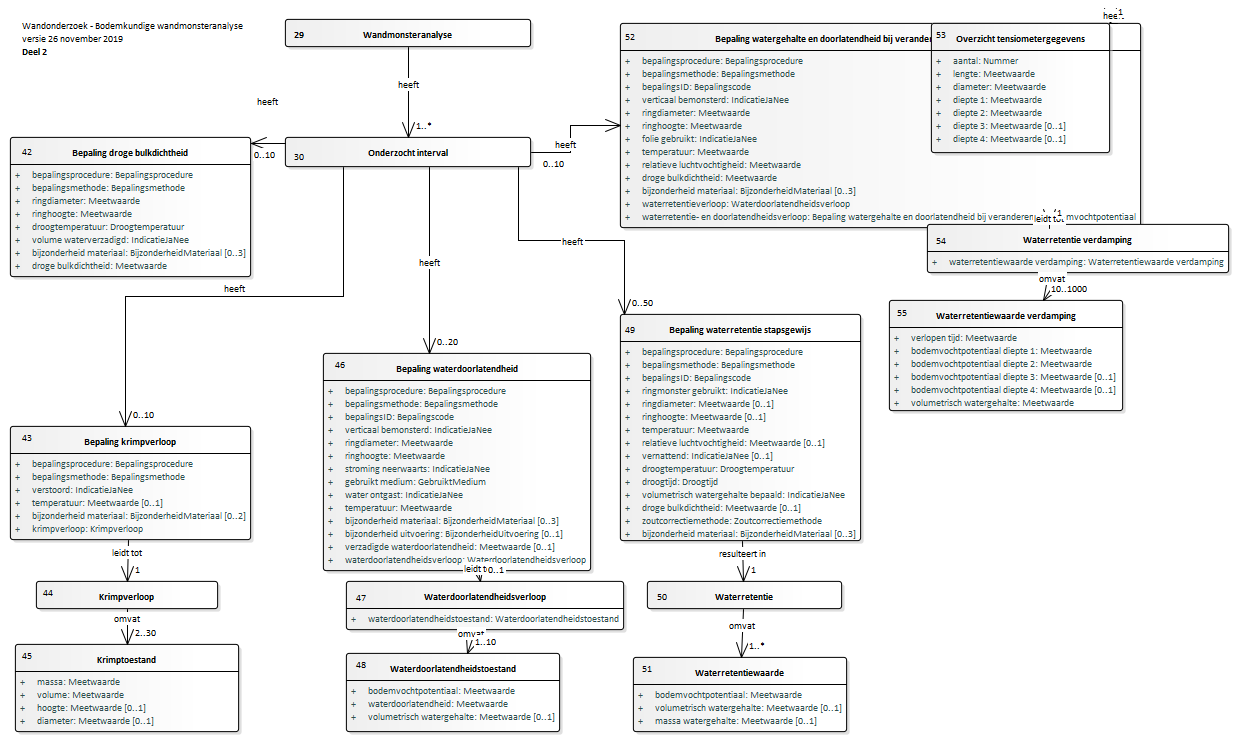
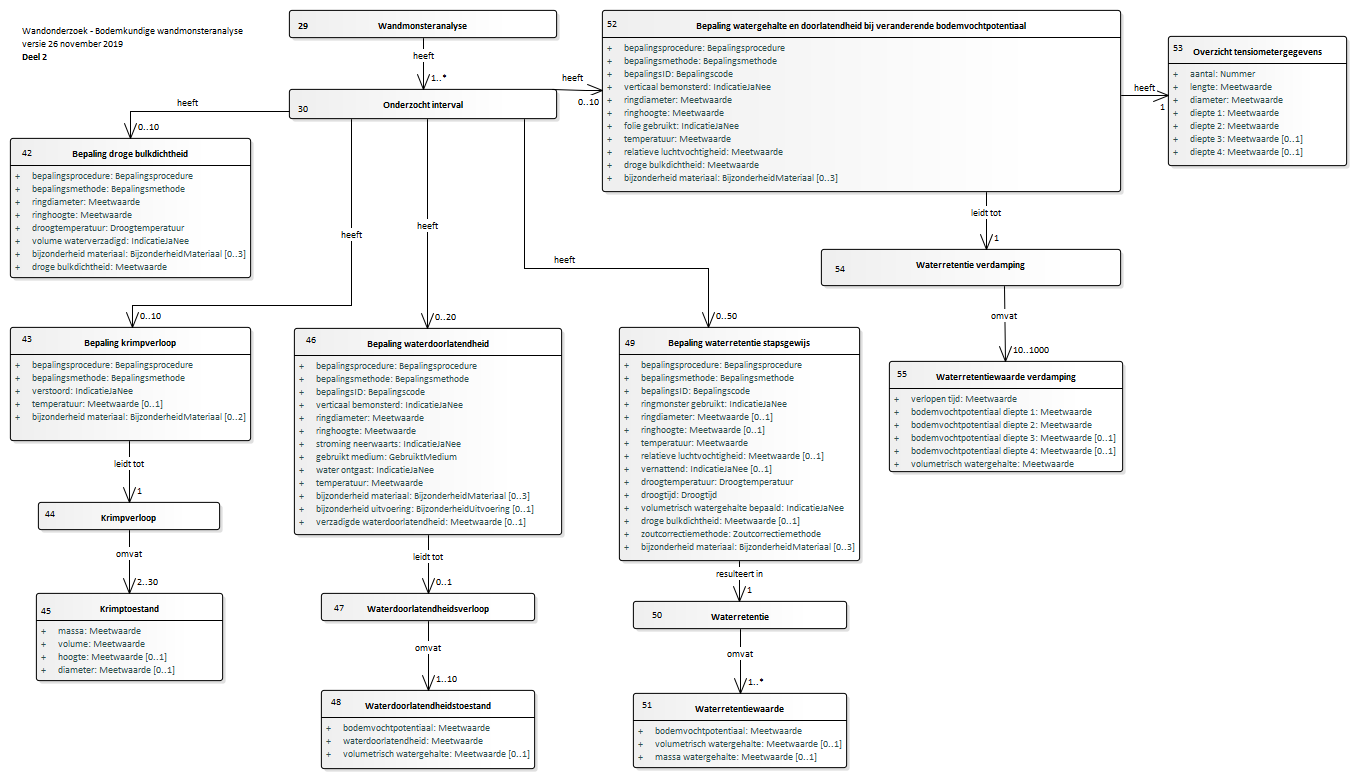
Conceptualmodel-BodemkundigwandonderzoekSFR-1.92.3versie10maart2020-3-20200316-20200317-100921

diff --git a/data/SFR-cat.msword.html b/data/SFR-cat.msword.html
@@ -13,7 +13,7 @@
    <body>
       <p>Conceptual model/Bodemkundig wandonderzoek (SFR)/20200316</p>
       <p>Imvertor: 1.59.2</p>
-      <p>Model release: Conceptualmodel-BodemkundigwandonderzoekSFR-1.92.3versie10maart2020-3-20200316-20200317-093454</p>
+      <p>Model release: Conceptualmodel-BodemkundigwandonderzoekSFR-1.92.3versie10maart2020-3-20200316-20200317-100921</p>
       <hr>
       <section>
          <h1>Artikel 1 Definitie van registratieobject, entiteiten en attributen</h1>
@@ -115,22 +115,22 @@
                      <area shape="rect" alt="Onderzocht interval" coords="409,135,660,223" href="#graph_EAID_A420FBE3_89CE_466c_875A_7F10AD21E90D"></map><p><b>Domeinmodel BRO SFR Bodemkundige analyses deel 1 1.91 </b></p>
                </div>
                <div class="imageinfo overview"><img src="Images/EAID_2E9B0773_D299_49e6_BEBA_866A5B1961C2.png" usemap="#imagemap-EAID_2E9B0773_D299_49e6_BEBA_866A5B1961C2" alt="Diagram "><map name="imagemap-EAID_2E9B0773_D299_49e6_BEBA_866A5B1961C2">
-                     <area shape="rect" alt="Wandmonsteranalyse" coords="285,19,531,47" href="#graph_EAID_DC3E6339_1B2C_482c_AB74_881D1281A2EC">
-                     <area shape="rect" alt="Krimptoestand" coords="15,644,239,732" href="#graph_EAID_ABD5754F_2F97_48b5_B6AA_798E8E996A1B">
-                     <area shape="rect" alt="Krimpverloop" coords="36,581,218,609" href="#graph_EAID_368A7E5B_2AC2_4377_898A_204592B121EE">
-                     <area shape="rect" alt="Bepaling krimpverloop" coords="10,426,251,540" href="#graph_EAID_FE20ED5D_F749_4cbf_A3F0_622FD6CE25DE">
-                     <area shape="rect" alt="Waterdoorlatendheidstoestand" coords="346,653,560,732" href="#graph_EAID_B49C8011_2704_45aa_B634_D2A7C3DBA664">
-                     <area shape="rect" alt="Waterdoorlatendheidsverloop" coords="346,581,624,630" href="#graph_EAID_7E57EB8B_0FFF_4b51_8B5A_AE9275E95298">
-                     <area shape="rect" alt="Waterretentiewaarde" coords="633,657,847,732" href="#graph_EAID_F02CB409_6369_43fa_851D_041176F3D170">
-                     <area shape="rect" alt="Waterretentie" coords="647,581,842,609" href="#graph_EAID_D23C916F_2BD4_4ea8_8084_CD4A129DC709">
-                     <area shape="rect" alt="Overzicht tensiometergegevens" coords="931,23,1110,153" href="#graph_EAID_C8F6BEB6_3483_4781_A0FC_156AA99B7B0C">
-                     <area shape="rect" alt="Waterretentiewaarde verdamping" coords="889,300,1123,411" href="#graph_EAID_E568963F_D23E_4b85_AE99_F8FF7B47842B">
-                     <area shape="rect" alt="Waterretentie verdamping" coords="927,224,1229,273" href="#graph_EAID_2DFF99AA_EEBB_4f93_BFBE_9601B723031A">
-                     <area shape="rect" alt="Bepaling watergehalte en doorlatendheid bij veranderende bodemvochtpotentiaal" coords="620,23,1141,228" href="#graph_EAID_49AD3898_158D_47c7_B1AF_C839D2CB7B68">
-                     <area shape="rect" alt="Bepaling waterretentie stapsgewijs" coords="620,314,861,541" href="#graph_EAID_BAE772BD_B71F_4124_98FC_F7EF5E68BCBF">
-                     <area shape="rect" alt="Bepaling waterdoorlatendheid" coords="323,353,591,571" href="#graph_EAID_BCDCEB7C_2766_41e9_9958_35F5860BE49A">
-                     <area shape="rect" alt="Bepaling droge bulkdichtheid" coords="10,137,251,277" href="#graph_EAID_A1E3A70D_62A1_406f_8D49_F395104462BB">
-                     <area shape="rect" alt="Onderzocht interval" coords="285,137,531,167" href="#graph_EAID_A420FBE3_89CE_466c_875A_7F10AD21E90D"></map><p><b>Domeinmodel BRO SFR Bodemkundige analyses deel 2 1.91</b></p>
+                     <area shape="rect" alt="Wandmonsteranalyse" coords="289,10,557,38" href="#graph_EAID_DC3E6339_1B2C_482c_AB74_881D1281A2EC">
+                     <area shape="rect" alt="Krimptoestand" coords="36,593,223,681" href="#graph_EAID_ABD5754F_2F97_48b5_B6AA_798E8E996A1B">
+                     <area shape="rect" alt="Krimpverloop" coords="38,502,220,530" href="#graph_EAID_368A7E5B_2AC2_4377_898A_204592B121EE">
+                     <area shape="rect" alt="Bepaling krimpverloop" coords="10,327,251,441" href="#graph_EAID_FE20ED5D_F749_4cbf_A3F0_622FD6CE25DE">
+                     <area shape="rect" alt="Waterdoorlatendheidstoestand" coords="321,690,535,769" href="#graph_EAID_B49C8011_2704_45aa_B634_D2A7C3DBA664">
+                     <area shape="rect" alt="Waterdoorlatendheidsverloop" coords="321,593,535,621" href="#graph_EAID_7E57EB8B_0FFF_4b51_8B5A_AE9275E95298">
+                     <area shape="rect" alt="Waterretentiewaarde" coords="633,693,847,768" href="#graph_EAID_F02CB409_6369_43fa_851D_041176F3D170">
+                     <area shape="rect" alt="Waterretentie" coords="633,601,847,629" href="#graph_EAID_D23C916F_2BD4_4ea8_8084_CD4A129DC709">
+                     <area shape="rect" alt="Overzicht tensiometergegevens" coords="1168,36,1347,166" href="#graph_EAID_C8F6BEB6_3483_4781_A0FC_156AA99B7B0C">
+                     <area shape="rect" alt="Waterretentiewaarde verdamping" coords="889,361,1123,472" href="#graph_EAID_E568963F_D23E_4b85_AE99_F8FF7B47842B">
+                     <area shape="rect" alt="Waterretentie verdamping" coords="821,249,1121,286" href="#graph_EAID_2DFF99AA_EEBB_4f93_BFBE_9601B723031A">
+                     <area shape="rect" alt="Bepaling watergehalte en doorlatendheid bij veranderende bodemvochtpotentiaal" coords="602,10,1121,192" href="#graph_EAID_49AD3898_158D_47c7_B1AF_C839D2CB7B68">
+                     <area shape="rect" alt="Bepaling waterretentie stapsgewijs" coords="619,327,860,561" href="#graph_EAID_BAE772BD_B71F_4124_98FC_F7EF5E68BCBF">
+                     <area shape="rect" alt="Bepaling waterdoorlatendheid" coords="294,328,562,535" href="#graph_EAID_BCDCEB7C_2766_41e9_9958_35F5860BE49A">
+                     <area shape="rect" alt="Bepaling droge bulkdichtheid" coords="10,138,251,278" href="#graph_EAID_A1E3A70D_62A1_406f_8D49_F395104462BB">
+                     <area shape="rect" alt="Onderzocht interval" coords="289,89,557,119" href="#graph_EAID_A420FBE3_89CE_466c_875A_7F10AD21E90D"></map><p><b>Domeinmodel BRO SFR Bodemkundige analyses deel 2 1.91</b></p>
                </div>
                <div class="imageinfo overview"><img src="Images/EAID_900B6706_7FEE_46f2_B5FB_5FB28C185ED4.png" usemap="#imagemap-EAID_900B6706_7FEE_46f2_B5FB_5FB28C185ED4" alt="Diagram "><map name="imagemap-EAID_900B6706_7FEE_46f2_B5FB_5FB28C185ED4">
                      <area shape="rect" alt="Watergehalte en doorlatendheid bij bepaalde bodemvochtpotentiaal" coords="574,511,888,593" href="#graph_EAID_321DD240_1DC5_4a4a_A79F_B87D293B2042">
